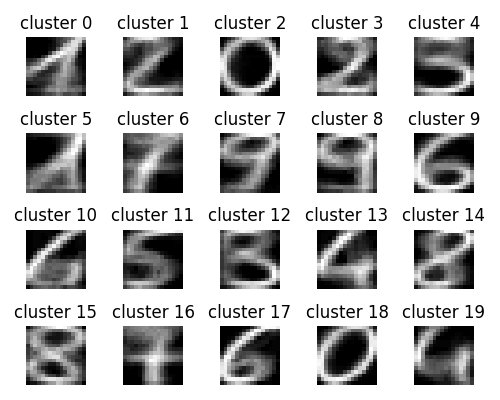
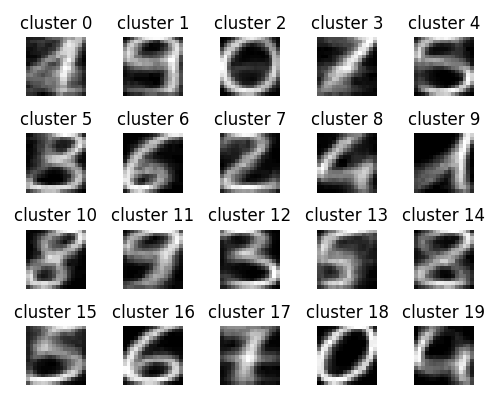
funziona GaussianMixture però con 20 cluster....

diff --git a/GaussianMixture.py b/GaussianMixture.py
@@ -1,15 +1,24 @@
 import matplotlib.pyplot as plt
 import pandas as pd
 from sklearn.mixture import GaussianMixture
+import time as time
+from sklearn.preprocessing import StandardScaler
+from sklearn.decomposition import PCA
 
 # open a csv file but do not consider the last 10 columns
 df = pd.read_csv('semeion.csv', sep=' ', usecols=range(0, 256), names=range(0, 256))
 
+# standardize the data
+X_std = StandardScaler().fit_transform(df)
+
+# do pca
+pca = PCA(0.3)
+X_pca = pca.fit_transform(X_std)
 
 # from the result, we can see that n_components = 10 is the best choice
 GM: GaussianMixture = GaussianMixture(n_components=20, covariance_type='diag', random_state=0)
-GM.fit(df)
-y_pred = GM.predict(df)
+GM.fit(X_pca)
+y_pred = GM.predict(X_pca)
 print(list(set(y_pred)))
 c0 = df[y_pred == 0]
 c1 = df[y_pred == 1]
@@ -42,7 +51,7 @@ print(c0.shape, c1.shape, c2.shape, c3.shape,
 fig, ax = plt.subplots(4, 5, figsize=(5, 4))
 for i in range(20):
     ax[i // 5, i % 5].imshow(eval('c' + str(i)).mean(axis=0).values.reshape(16, 16), cmap='gray')
-    ax[i // 5, i % 5].set_title('cluster ' + str(i))
+    ax[i // 5, i % 5].set_title('cluster n:' + str(i))
     ax[i // 5, i % 5].axis('off')
 plt.tight_layout()
 plt.savefig('GaussianMixture_with 20 cluster.png')
